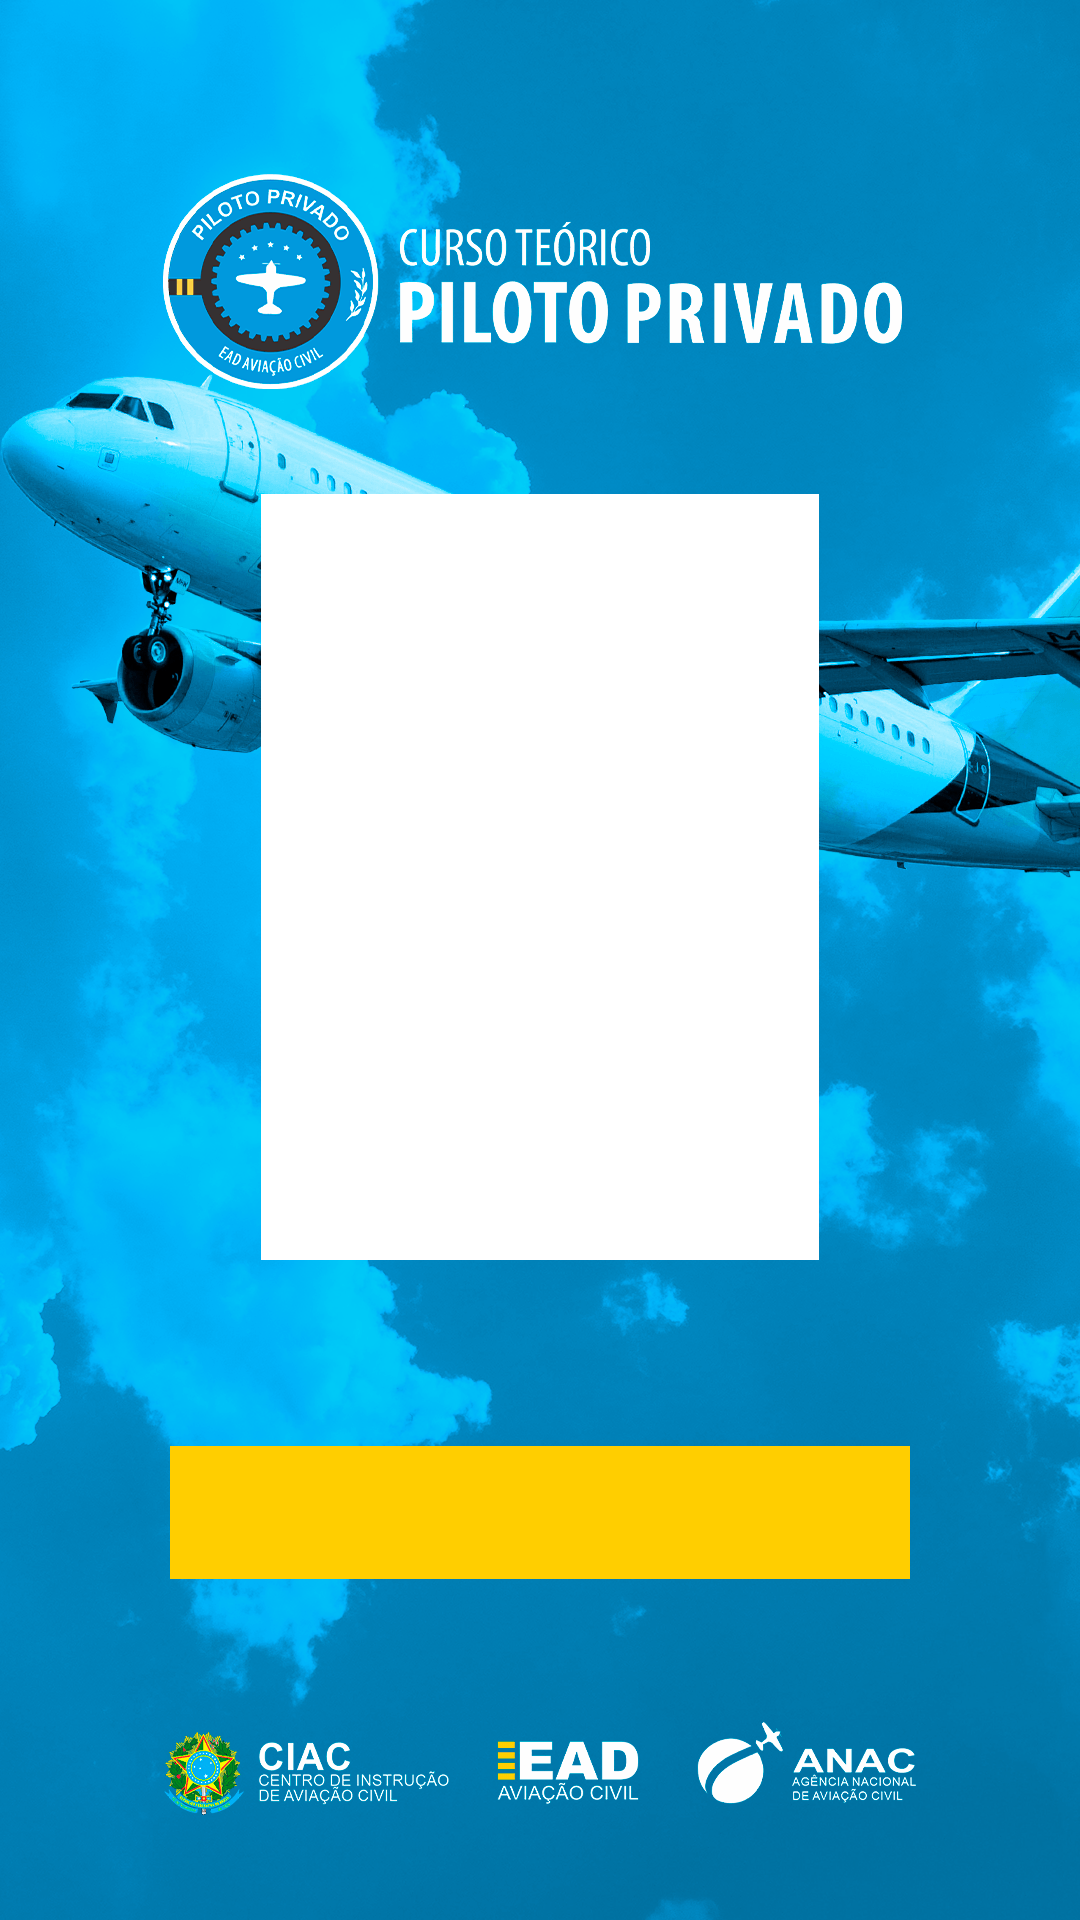
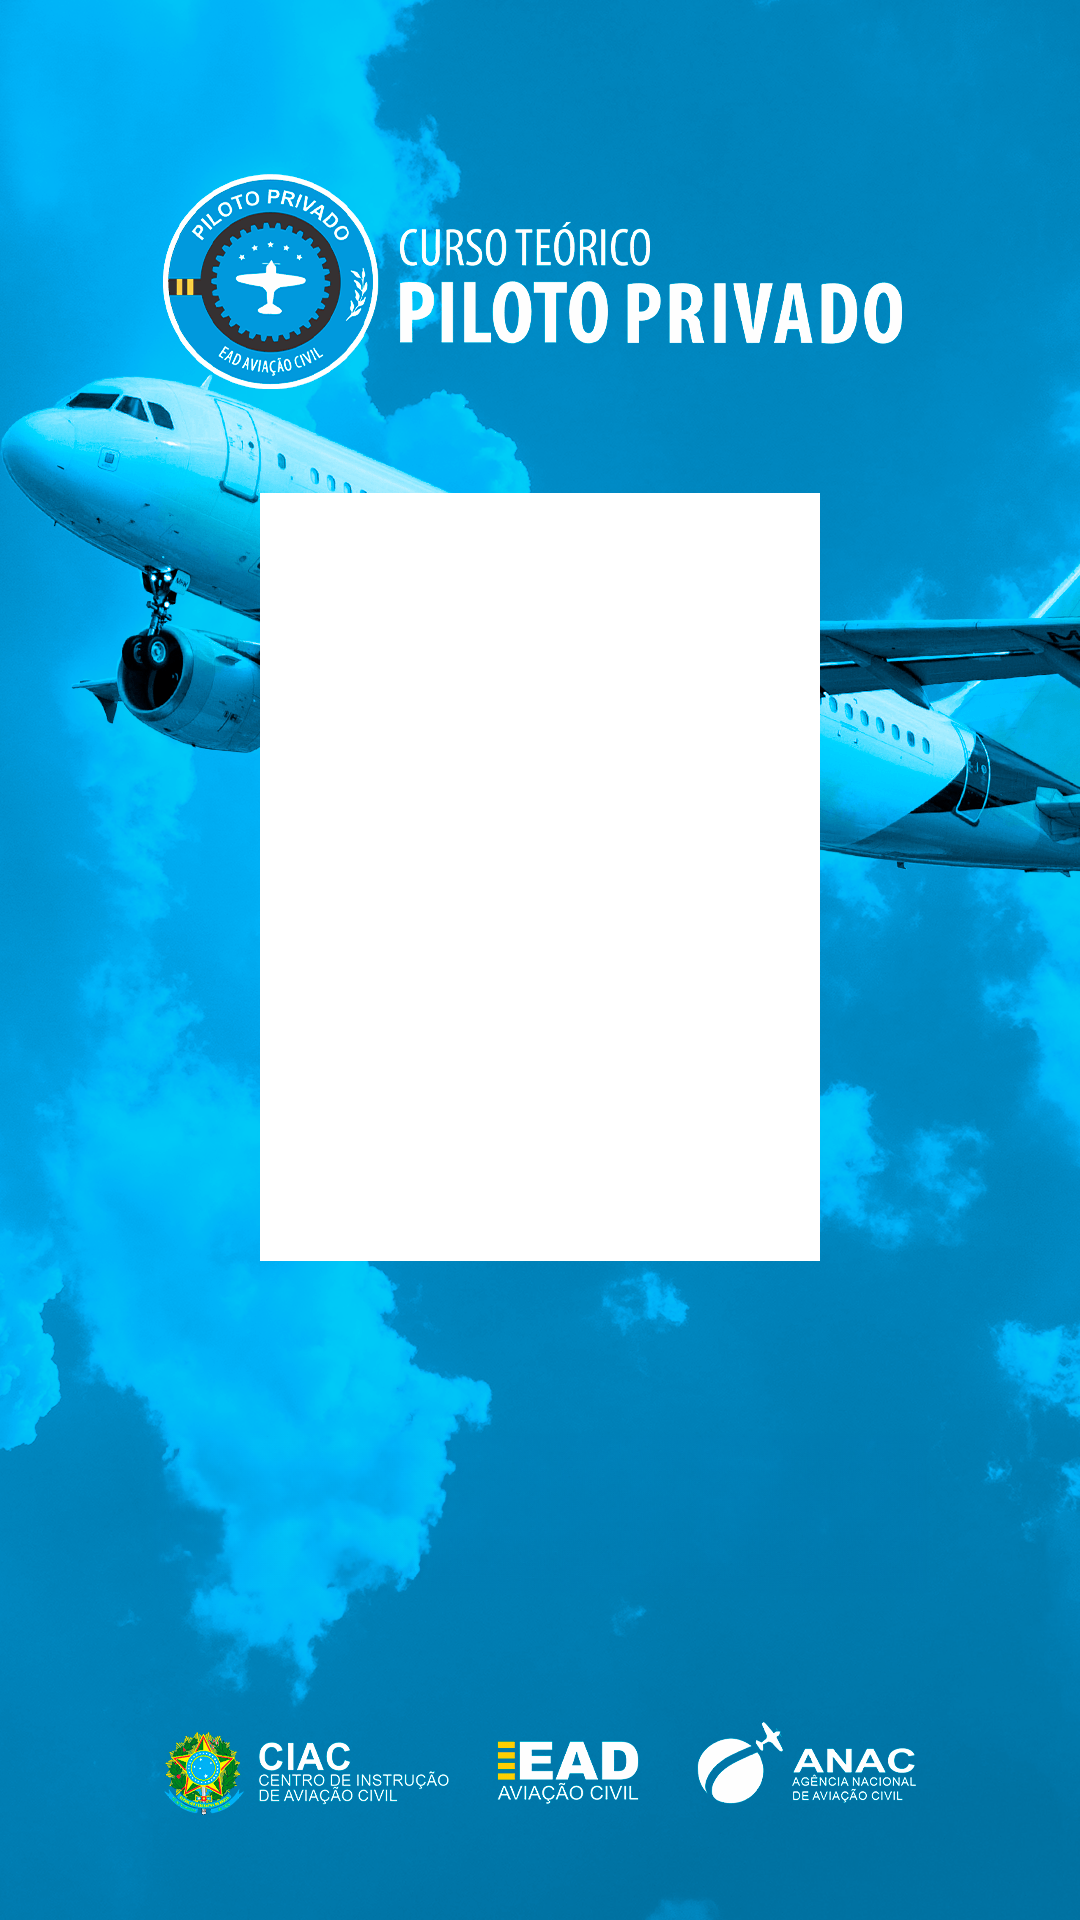
fix

Changed region(s): [[0.1528, 0.75, 0.8556, 0.8438]]

diff --git a/index.html b/index.html
@@ -26,31 +26,6 @@
 <body>
         <main class="main">
         <div class="inner-container">
-
-             <!-- DIV DO CROPPER E DO PREVIEW -->
-            <!-- <div class="container" id="box-crop">    
-                <div id="preview-crop"></div>  
-                <div id="box">
-                    <h2 id="h2-avatar">Avatar</h2>
-                    <form action="" enctype="multipart/form-data">
-                        <input type="file" name="file" id="avatar-image">
-                    </form>
-                </div> 
-            </div>  -->
-
-            <!-- <form action="crop.php" method="post" enctype ="multipart/form-data">
-               <p>Upload Image: <input type="file" name="image" id="image"/></p> 
-               <input type="hidden" name="x1" id=""/>
-               <input type="hidden" name="y1" id=""/>
-               <input type="hidden" name="w" id=""/>
-               <input type="hidden" name="h" id=""/>
-                <button type="sumit" name="submit">Submit</button>
-            </form>
-            <p>
-                <img id="previewimagem" style="display:none;"/>
-            </p> -->
-         
-
             <section class="content dados">
                 <div class="profile">
                     <input type="file" id="uploadPhoto" accept="image/*" hidden>
@@ -76,6 +51,7 @@
                             <label for="telefone">Telefone</label>
                         </div> -->
                     </div>
+                    <div class="alert"></div>
                     <div class="row">
                         <div class="input">
                             <!-- <input type="text" id="setor" placeholder="Setor" required>
@@ -84,13 +60,11 @@
                                 <select name="" id="setor">
                                     
                                 </select>
-                                
                                 <div class="input" id="cidade">
                                     
                                     <label for="cargo">Cidade:</label>
                                     <select type="text" id="cargo" placeholder="Cargo" required></select>   
                                 </div>  
-
                         </div>
                     </div>
                     <div class="row">
@@ -120,16 +94,15 @@
                                     <div class="barra">/</div>
                                     <div class="setor"> Estado</div>
                                 </div>
-                            
                             </div>
                         </div>
                         
                     </div>
                 </div>
             </div>
-            <div class="baixar btn primary lg">
-                <div class="text">Baixar Crachá</div>
-            </div>
+        </div>
+        <div class="baixar btn primary lg">
+            <div class="text">Baixar Crachá</div>
         </div>
 
     </main>

diff --git a/src/styles/style.css b/src/styles/style.css
@@ -55,6 +55,9 @@
   width: 100%;
   max-width: 800px;
   margin: 0 auto;
+  display: flex;
+  
+
 }
 
 #cidade
@@ -120,6 +123,7 @@
   display: -webkit-box;
   display: -ms-flexbox;
   display: flex;
+  flex-direction: row;
   -webkit-box-align: start;
       -ms-flex-align: start;
           align-items: flex-start;
@@ -248,6 +252,7 @@
   }
 }
 
+
 .main .content .form .row .input {
   width: 100%;
   height: 56px;
@@ -359,17 +364,20 @@
   display: flex;
   align-items: center;
   justify-content: center;
-  gap: 50px;
+  gap: 20px;
 }
 
+
+
 .cidade-estado .cargo{
-  color: #0E0E10;
+  color: #ffffff;
   font-size: 20px;
 }
 
-.cidade-estado .cargo .setor
+.cidade-estado .setor
 {
-  color: #0E0E10;
+  color: white;
+  font-size: 20px;
 }
 
 
@@ -427,7 +435,16 @@ figure{
 
 .nome
 {
+  display: flex;
+  flex-direction: row;
+  align-items: center;
+  justify-content: center;
   font-size: 25px;
+  padding-top:10px;
+  padding-left: 20px;
+  padding-right: 20px;
+  padding-bottom: 10px;
+  background-color: #ffce00;
   
 }
 
@@ -435,20 +452,19 @@ figure{
 .top{
   display: flex;
   flex-direction: column;
+  align-items: center;
+  justify-content: space-between;
   color: black;
-  gap: 30px;
+  gap: 14px;
+
   /* background-color: #5619B4; está aqui para DEBUG */
 }
-.setor
-{
-  color: black;
-  font-size: 20px;
-}
+
 
 .barra
 {margin-left: 10px;
   margin-right: 10px;
-  color: #0E0E10;
+  color: #ffffff;
   font-weight: 700;
 }
 
@@ -552,7 +568,7 @@ figure{
 
 .btn .text {
   font-weight: 600;
-  color: #7A899F;
+  color: #ffffff;
   z-index: 1;
 }
 
@@ -566,15 +582,15 @@ figure{
 
 .btn.secondary {
   background-color: transparent;
-  border: 1px solid #5619B4;
+  border: 1px solid #0095da;
 }
 
 .btn.secondary::after {
-  background-color: #5619B4;
+  background-color: #0095da;
 }
 
 .btn.secondary .text {
-  color: #5619B4;
+  color: #0095da;
 }
 
 .btn.disabled, .btn:disabled {
@@ -597,6 +613,11 @@ figure{
 }
 
 .link.primary {
-  color: #5619B4;
+  color: #0095da;
 }
 /*# sourceMappingURL=style.css.map */
+
+#button_recortar.text{
+  color: #0095da;
+}
+

diff --git a/src/js/script.js b/src/js/script.js
@@ -8,25 +8,19 @@ $(function () {
         }
         else
         {
-            $(".nome").text($(this).val());
+            
+            $(".nome").text($(this).val().toUpperCase());
         }    
     });
 
     $("#cargo").on("input", function () {
-        $(".cargo").text($(this).val());
+        $(".cargo").text($(this).val().toUpperCase());
     });
 
     $("#setor").on("input", function () {
         $(".setor").text($(this).val());
     });
 
-    $("#telefone").on("keyup", function () {
-        $(".telefone").text($(this).val());
-    });
-
-    $("#email").on("input", function () {
-        $(".email").text($(this).val());
-    });
 
     $(".baixar").on("click", function (e) {
         gerarImagem($(".nome").text());
@@ -89,7 +83,7 @@ $(function () {
     }
 
     
-    atualizarNome();
+    
 
     // ESSA FUNÇÃO É PARA GERAR A IMAGEM PARA BAIXAR BASICAMENTE
     function gerarImagem(nome) {
@@ -208,6 +202,41 @@ $(function () {
 });
 
 
+
+
+//criei aqui uma mask para caracteres do nome da pessoa
+
+let nome = document.getElementById('nome');
+let spanAlert = document.createElement('span');
+
+function alertCaracter(nome)
+{
+    let alert = document.querySelector('.alert');
+    let numb_string = nome.value.length;
+    if(numb_string == 20)
+    {
+        nome.style.borderColor ="red";
+        spanAlert.style.color ='red';
+        spanAlert.style.fontSize = "10px";
+        spanAlert.innerHTML = "você chegou no limite de 20 caracteres";
+        if(!spanAlert.parentNode)
+        {
+            alert.insertAdjacentElement("afterend", spanAlert); 
+        }
+    }else{
+        nome.style.borderColor ="gray";
+        if(spanAlert.parentNode)
+        {
+            spanAlert.remove();
+        }
+    }
+}
+
+
+
+nome.addEventListener('input', function(){
+    alertCaracter(nome);
+})
 
 
 
